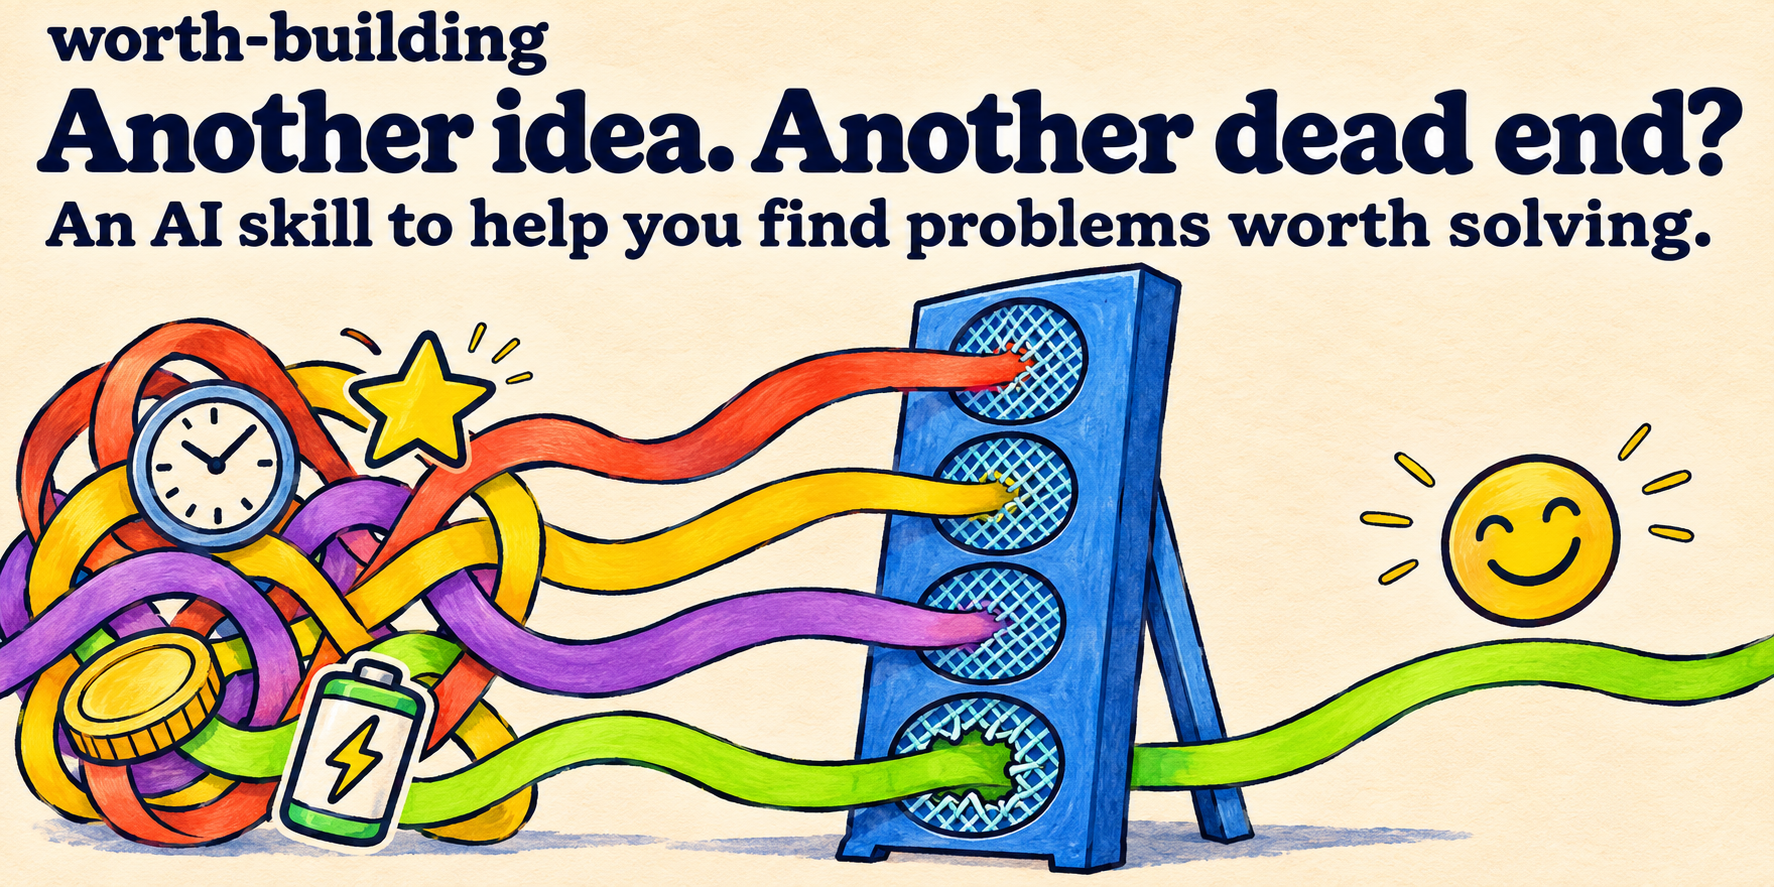
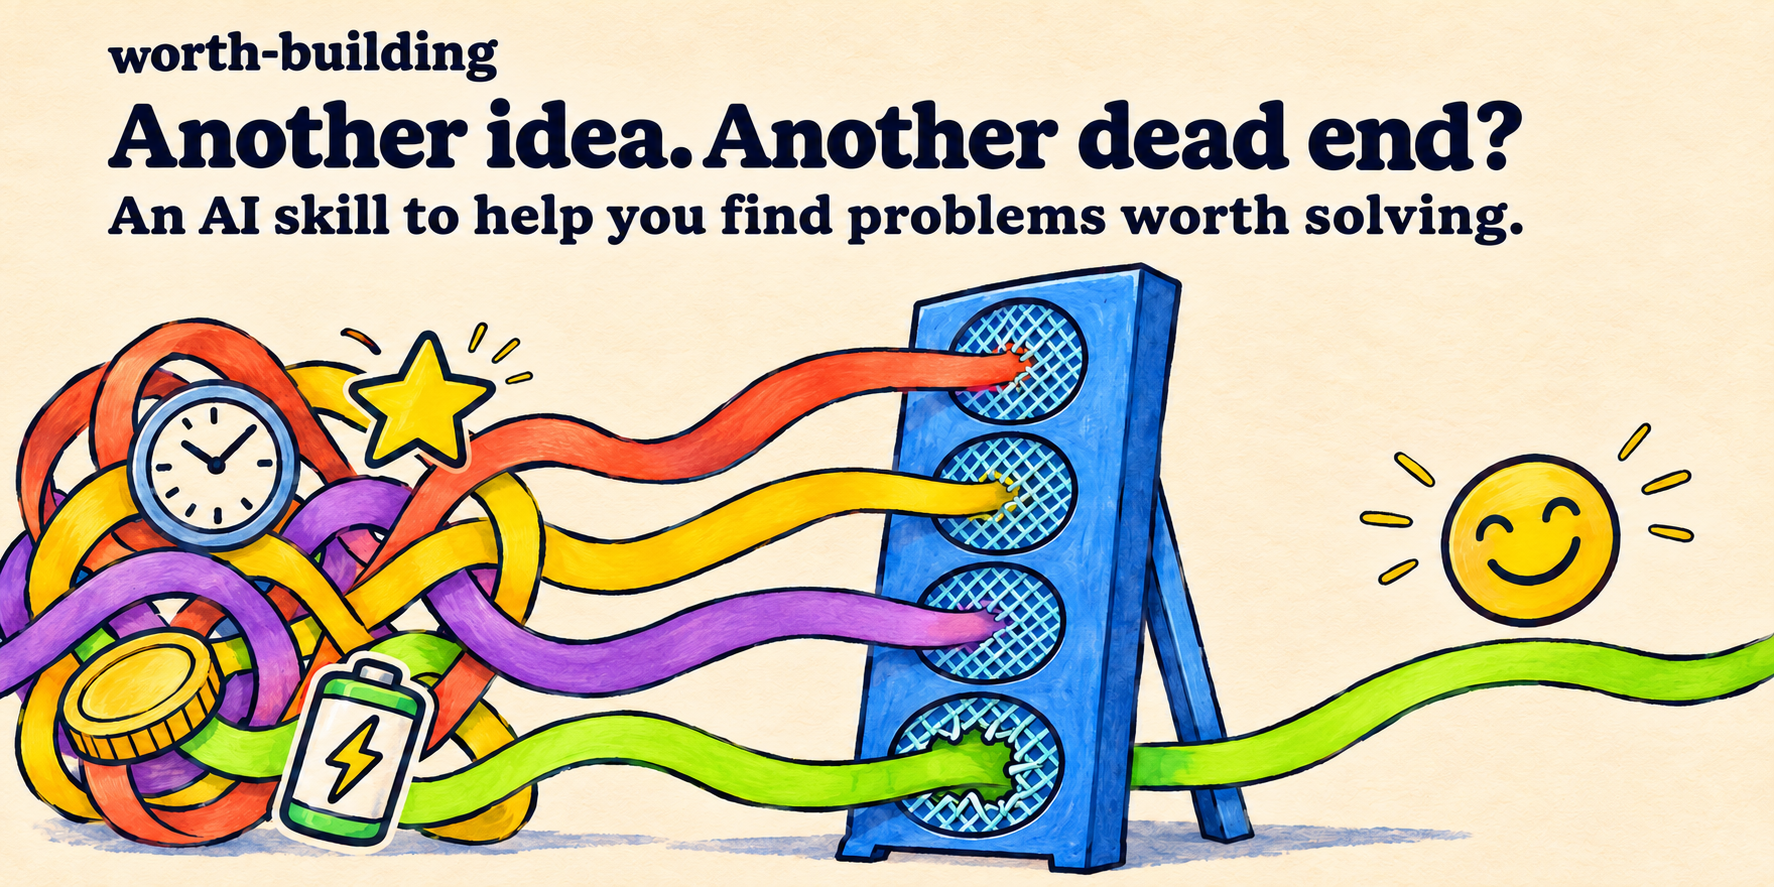
Guide builders through idea validation

diff --git a/skills/worth-building/SKILL.md b/skills/worth-building/SKILL.md
@@ -1,30 +1,38 @@
 ---
 name: worth-building
-description: Find problems worth solving and evaluate startup ideas, side projects, and product opportunities before committing time, money, or energy. Use when a builder wants to discover unmet needs, check whether a problem is real, verify demand, run discovery interviews, compare projects, or decide whether to go, test, hold, or stop.
+description: Help builders decide whether an idea is worth building. Guide startup idea validation, customer discovery, and side-project or product decisions based on the builder's goals, constraints, and evidence. Use when someone brings an idea, wants to find a real problem or verify demand, needs to choose a solution, or asks what to build, test, hold, or stop.
 license: MIT
 ---
 
 # Worth Building
 
-Help the user decide what is worth the next increment of effort. Give an independent judgment in the user's language. Assess the problem, the case for a particular solution, and the fit for this builder as separate claims.
+When someone says “I have an idea. Is it worth building?”, guide them from that idea to a decision about the next investment of time, money, and energy. Give an independent judgment in their language. Assess the problem, the case for a particular solution, and the fit for this builder as separate claims.
 
-## Define the choice
+## Start where the builder is
 
-1. Name the step on the table, the resources it would consume, and what it would displace. Compare competing projects over the same period. Include continuing the current priority and keeping the capacity free.
-2. Form a falsifiable problem statement. **When [trigger] occurs, [specific people] need to [make progress]. Today they [act, work around it, or let it go], with [observable consequence].** Label unsupported clauses as hypotheses. Identify the user, payer, and decision-maker if they differ.
-3. Ask up to three questions only if the answers could change the recommendation. Use reversible assumptions to keep moving. An idea alone can produce a provisional decision and a useful next check.
+1. Confirm the immediate decision in plain language. Use what they have already told you about the idea, who it is for, why they care, what they have observed, and what they can spend. Include existing priorities and access to users when they affect the decision. For competing projects, use the same period and include continuing the current priority.
+2. If a missing detail would change the next step, ask the most useful question first. Group up to three closely related questions when that saves a round trip. For a quick read, give a provisional recommendation with your assumptions and one next check.
+3. Form a problem hypothesis when you have enough context. **When [trigger] occurs, [specific people] need to [make progress]. Today they [act, work around it, or let it go], with [observable consequence].** Label unsupported clauses as hypotheses. Identify the user, payer, and decision-maker if they differ.
 
-## Find and compare problems
+## Choose the next useful step
 
-Use [opportunity mapping](references/opportunity-mapping.md) when the user starts without an idea, brings several, or has jumped to a solution. Start with recent episodes where people waited, redid work, asked for help, spent money, switched tools, or walked away. Trace what changed, what they were trying to achieve, and why they stayed or switched. Turn those episodes into two or three candidate problems and compare them against the same desired outcome. If no episode is available, pick one reachable setting and plan how to observe it.
+| Starting point | What to do next |
+| --- | --- |
+| A new idea or a list of planned features | Pick the intended user and outcome. Ask what happened the last time they faced the problem and how they dealt with it. If no episode is available, suggest one reachable person, workflow, or artifact to learn from. |
+| A desire to build something, or several ideas with weak evidence | Use [opportunity mapping](references/opportunity-mapping.md) to compare recent costly workarounds, delays, or attempts to switch. Choose a consequential problem the builder can investigate. |
+| Early signals, interviews, or trial results | Use the [evidence rubric](references/evidence.md) to identify the strongest observation, a credible counterexample, and the unknown that matters for this commitment. Look for the cheapest credible way to resolve it. |
+| A supported problem and multiple possible solutions | Compare the proposed solution and at least one credible alternative against the same user outcome when such an alternative exists. Consider the current process, a narrower change, or a manual trial as appropriate. Check adoption effort, delivery cost, and fit with the builder's constraints. Recommend the best-supported next step and name the evidence that would make you choose differently. |
+| An existing project the builder might continue or drop | Use the [builder reflection rubric](references/reflection.md) to weigh the next investment against current obligations. Review actual use and the remaining work. Consider a smaller step, pause, or stop where warranted. |
 
-## Test the case for investing
+Use only the tools and steps that address the decision. In a guided conversation, say what the latest answer changes and follow the remaining uncertainty most likely to change your advice. Reuse the user's earlier answers. When they return with an experiment result, compare it with the agreed criteria and update the recommendation from where you left off.
 
-- Use the [evidence rubric](references/evidence.md) for each decisive claim. Look for a real cost, repeated behavior, or a concrete commitment that matches the proposed step. Seek a satisfied user, a sufficient workaround, or another explanation. Give the strongest disconfirming observation comparable attention.
+## Check the evidence that matters
+
+- Look for a real cost, repeated behavior, or a concrete commitment that matches the proposed step. Seek a satisfied user, a sufficient workaround, or another explanation. Give the strongest disconfirming observation comparable attention.
 - Follow the [web research workflow](references/web-research.md) when public facts matter and browsing is available. Inspect pages and cite the sources of factual findings from the investigation. If browsing is unavailable, identify the unresolved claims and give targeted queries or artifacts to check.
 - Use the [interview workflow](references/interviews.md) to reconstruct specific episodes, examine switching and inaction, and distinguish what was said from what was done. Plan interviews when none happened. Never invent participants, quotes, search results, numbers, or citations. Simulations can rehearse the procedure. Exclude them from demand evidence.
-- Use the [builder reflection rubric](references/reflection.md) to compare the future costs of each choice and identify what the user will still do when starting feels less exciting. Motivation and past spending belong in the reflection. They do not raise the evidence level.
-- Use the [experiment guide](references/experiments.md) when the next decision depends on an unknown. Rank assumptions by the consequence of being wrong and the evidence already available. Pick a test that can change the decision at a cost the user can absorb.
+- Check what the next step would displace, what the builder can realistically sustain, and which routine work they would still choose once the novelty passes. Motivation and past spending belong in the reflection. They do not raise the evidence level.
+- Use the [experiment guide](references/experiments.md) when an open question could change the decision. Rank assumptions by the consequence of being wrong and the available evidence. Pick a test that fits the builder's access, time, and budget. Define what would count as a pass, failure, or inconclusive result before running it.
 
 ## Decide the next step
 
@@ -39,6 +47,6 @@ Missing evidence usually means **TEST** or **HOLD**. Weak evidence can justify a
 
 ## Deliver the decision
 
-Lead with **GO / TEST / HOLD / STOP** and state the exact step it covers. Give the problem, strongest evidence and countercase, confidence with its limits, what this would displace, and the next step or reopening condition. Use the [decision brief](assets/decision-brief.md) for a full review. For an active opportunity, schedule a next learning touchpoint in the plan.
+Lead with **GO / TEST / HOLD / STOP** and state the exact step it covers. Give the problem, strongest evidence and countercase, confidence with its limits, what the step would displace, and one action or reopening condition. Match the detail to the user's decision. Use the [decision brief](assets/decision-brief.md) for a full review. For an active opportunity, schedule a next learning touchpoint in the plan.
 
 Ask for authorization before any outreach, spending, publication, or external change. The user decides how much to commit.

diff --git a/README.md b/README.md
@@ -2,47 +2,49 @@
 
 ![worth-building. Another idea. Another dead end? An AI skill to help you find problems worth solving. A clock, star, coin, and battery sit among tangled strands. Three intact mesh screens catch the red, yellow, and purple strands. The green strand breaks through its own mesh and continues beneath a smiling face.](assets/banner.png)
 
-The last idea felt right, too. Before the next one takes over your evenings or budget, find out who has the problem, what it costs them, and how they handle it today.
+## Is this idea worth building?
 
-**worth-building** is an open-source Agent Skill for independent builders and small product teams. Bring a rough idea, a handful of observations, or two projects competing for the same time. The skill helps you find a problem worth investigating, check the evidence, and decide how much to commit next.
+You have a new idea. You can already picture the features, and part of you wants to spend the weekend building it. Maybe the last idea felt just as convincing. Who has this problem today? What do they already do about it? What would you need to see before giving this idea another weekend?
 
-## Try it
+**worth-building** is an open-source AI skill for validating startup ideas, side projects, and product features. Tell it what you're thinking of building. It helps you find the problem behind the idea, figure out what you still need to learn, and decide what to do next with the time and money you actually have.
 
-After [installing the skill](docs/installation.md), select or invoke it in your AI client and give it a concrete decision.
+## Try it with your idea
 
-> I have six hours this week and keep getting ideas for tools for independent bookshops. Help me find a problem worth investigating. My current priority is finishing a project I already promised to deliver. Start with workflows I can observe. Then tell me what evidence would justify spending more time.
+[Install worth-building](docs/installation.md) for Codex, Claude Code, or Gemini CLI. Invoke it in your client and explain your idea as you would to a friend. Use this prompt as a starting point.
 
-> I'm considering two ideas and can pursue one this month. Here's what people actually did, what they said they might do, and what each option would displace. Give me a decision for each and one observation that could change your mind.
+> I'm thinking of building an app to help independent bookshops track special orders. I have Saturday morning and know two shop owners I can talk to. Is this worth building? Walk me through what to find out first.
 
-For a quick judgment, share the situation, what you have seen, and how much you are about to spend. For a deeper review, add relevant links or redacted interview notes.
+With that starting point, the skill could help you ask the owners to walk through their last special order and look for where the current process breaks down. If the problem shows up in both shops, you can compare a change to the existing workflow with an app before you commit to either. [See the worked example](examples/worked-examples.md#a-guided-review-from-one-idea).
 
-## What you get
+## How the guided validation works
 
-- **Find opportunities** by starting with real situations where people wait, rework, improvise, pay for help, or give up.
-- **Check the case** through sourced web research, interviews grounded in specific past events, and small experiments with criteria set in advance.
-- **Check your own fit** by naming what the idea would displace and what work you would still choose when the novelty passes.
-- **Make the next decision** with an evidence trail, countercase, and a limit on the commitment.
+- **You have a rough idea.** Start with who would use it, the last time the problem came up, and how they handled it. If you have yet to choose an idea, start with a workflow you can observe.
+- **You have some evidence.** Bring customer interviews, web research, or notes from a pilot. The skill checks what they support and asks which missing fact would change your decision.
+- **You have a real problem and several ways to solve it.** Compare the options against the same outcome. Check how each would fit the customer's workflow, what switching would take, and what it would cost you to deliver and maintain.
+- **You have several projects competing for your time.** Compare them over the same period. Make room for the work you already care about and decide what each new commitment would displace.
 
-| Decision | Next step |
+You can work through the decision in conversation or get a quick first read. As you bring back evidence, the recommendation can change.
+
+| Decision | What to do next |
 | --- | --- |
-| **GO** | Take the named, bounded step supported by the evidence. |
+| **GO** | Take the specific step the evidence supports, with a limit and a review date. |
 | **TEST** | Run the smallest credible check that could change your decision. |
-| **HOLD** | Revisit when a stated constraint clears or at a scheduled review. |
-| **STOP** | Close this direction on relevant counterevidence or a binding constraint. |
+| **HOLD** | Revisit when a specific constraint clears. |
+| **STOP** | Close this direction when the evidence or a binding constraint rules it out. |
 
 ## Install it
 
-Copy the complete [skill folder](skills/worth-building/SKILL.md), including its supporting files. The [installation guide](docs/installation.md) covers Codex, Claude Code, and Gemini CLI, with official documentation, verification steps, and a manual chat fallback. The skill consists of Markdown instructions and has no runtime dependencies of its own. Web research needs a client with browsing or sources you provide.
+Copy the complete [skill folder](skills/worth-building/SKILL.md), including its supporting files. The [installation guide](docs/installation.md) covers Codex, Claude Code, Gemini CLI, and a manual chat option. The skill consists of Markdown instructions. For web research, use a client with browsing or provide links and notes yourself.
 
-## Read or reuse the method
+## Explore the method
 
-- [Evidence rubric](skills/worth-building/references/evidence.md) and [builder reflection rubric](skills/worth-building/references/reflection.md)
-- [Web research workflow](skills/worth-building/references/web-research.md) and [interview workflow](skills/worth-building/references/interviews.md)
-- [Decision brief template](skills/worth-building/assets/decision-brief.md)
-- [Find and compare problems](skills/worth-building/references/opportunity-mapping.md) and [design the next experiment](skills/worth-building/references/experiments.md)
+- [Find and compare problems](skills/worth-building/references/opportunity-mapping.md)
+- [Research alternatives](skills/worth-building/references/web-research.md) and [run customer discovery interviews](skills/worth-building/references/interviews.md)
+- [Assess the evidence](skills/worth-building/references/evidence.md) and [check what the project would displace](skills/worth-building/references/reflection.md)
+- [Design an experiment](skills/worth-building/references/experiments.md) and [record the decision](skills/worth-building/assets/decision-brief.md)
 - [Worked examples](examples/worked-examples.md) and [Worth Building's self-assessment](examples/self-assessment.md)
 
-The repository includes fictional practice cases. Its own usefulness and repeat adoption are still hypotheses. See the self-assessment for the proposed first test.
+The worked examples are fictional. The self-assessment explains what would demonstrate that builders find the skill useful and choose to use it again.
 
 ## License
 

diff --git a/examples/worked-examples.md b/examples/worked-examples.md
@@ -2,6 +2,14 @@
 
 All people, observations, thresholds, and budgets below are fictional. Use them to see how the decision responds to different inputs. Set your own criteria before collecting data.
 
+## A guided review from one idea
+
+A builder wants to make an app for bookshop special orders, has a free Saturday morning, and knows two shop owners. They have yet to see either shop handle an order.
+
+**Start with TEST.** The most useful question is how a shop handled its last special order. Use Saturday morning to reconstruct one recent order with each owner. Ask where it stalled, what that meant for the customer or staff, and whether the current system already handles it. Compare actual events and use the two interviews to decide whether another check is worthwhile.
+
+Suppose both owners show that orders are tracked reliably, but staff forget to tell customers when an order is ready. The revised problem is customer notification at pickup, with the records supporting it at those shops. Compare adding a reminder to the existing workflow with an app. If the builder can free up another morning, the next **TEST** could be to try the reminder on a few live orders and record whether staff send updates on time. If both shops already sent timely updates but customers ignored them, investigate why people missed those updates before proposing another reminder.
+
 ## Find a problem before proposing a product
 
 A shop owner is considering some kind of repair-shop app but can spend only one morning exploring it. They recall one delayed repair while waiting for a part, one afternoon of interrupted work answering status calls, and one awkward appointment reschedule. Each is a candidate problem. The owner can trace several recent status calls using a redacted shop log, so that is the most accessible starting point.
